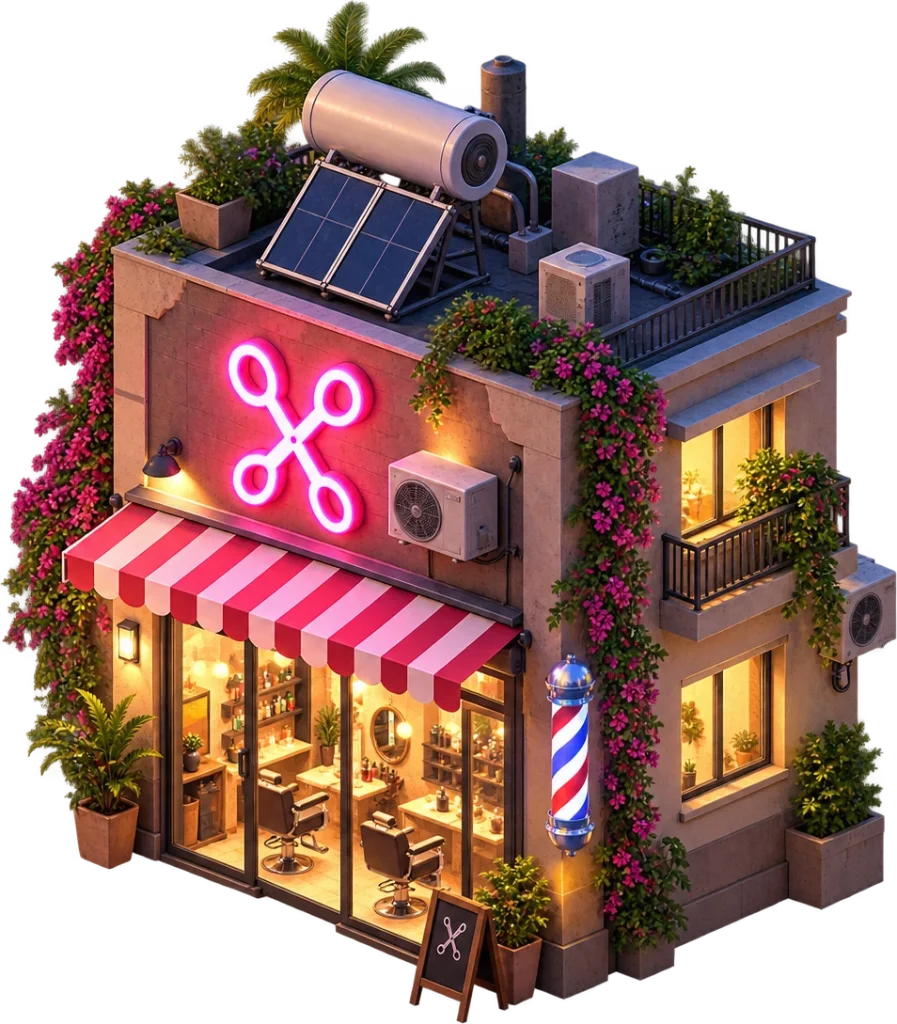
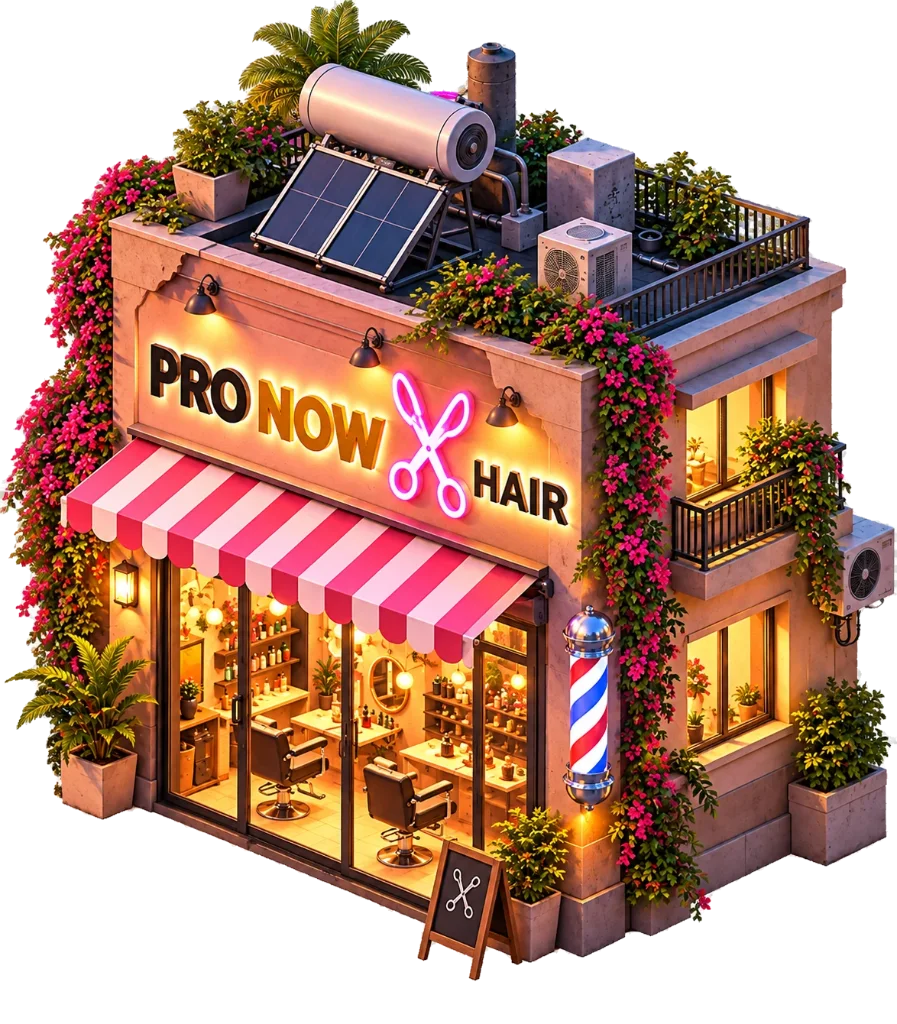
You see the shop before you walk into it
Amit, of the pink salon building: *"זה הכיוון שאני רוצה שתראה חנות לפני
שנכנסים — שמחה, חיה, נושמת, צעירה, עתידנית, זווית פרופורציונלית"*, with
three fixes: PRO NOW prominent, scissors that read as scissors, and a
word in English.

THE DOORSTEP. The trades' illustrated three-quarter buildings argue with
the street camera, which is why the street is flat elevations — but as
the moment of arrival they are exactly the picture he means. Pressing
"היכנס" now fills the screen with the building you are walking into: its
neon breathes, the view pushes in towards the door, and you come through
into the 360 room. Six trades have a building drawn; the rest enter as
before.

THE BUILDING. hair_barbershop_hero redrawn by the chat at the same angle
and in the same colours, with PRO NOW across the wall, pink neon scissors
with finger-holes and blades, and HAIR. It arrived with the usual
"transparent" background painted in as grey and white squares — 0% of
the file was transparent — and knockout-checker.mjs takes the grid out
by pattern, so the awning's white stripes and the barber pole survive.

How the wrong reference happened, for the record: the building he meant
is hair_barbershop_hero; I uploaded shop_hair, a flat beige elevation,
as "the facade Amit loves", and the chat faithfully redrew the wrong
thing. The flat redraw is not installed.

Gates: typecheck, lint, 81 test files, verify:a11y / screens / game pass.

diff --git a/tools/design-preview/src/city/City.tsx b/tools/design-preview/src/city/City.tsx
@@ -208,6 +208,35 @@ interface Trade {
 
 /** Avatar walk sheets whose frames have been checked by eye. See the
     player's loader for why this starts empty. */
+/*
+ * -----------------------------------------------------------------------
+ * THE SHOP BEFORE YOU ENTER IT
+ * -----------------------------------------------------------------------
+ * Amit, of the pink salon building: *"זה הכיוון שאני רוצה שתראה חנות לפני
+ * שנכנסים — שמחה, חיה, נושמת, צעירה, עתידנית, זווית פרופורציונלית."*
+ *
+ * These are the trades' own illustrated buildings, drawn at a
+ * three-quarter angle. In the street that baked angle argues with the
+ * camera, which is why the street uses flat elevations — but as the
+ * moment of arrival, full-screen, it is exactly the picture he means: you
+ * press "היכנס", the building you are walking into fills the screen, its
+ * neon breathes, the view pushes in towards the door, and you are inside.
+ */
+const DOORSTEP_HERO: Readonly<Record<string, string>> = {
+  hair: "hair_barbershop_hero.webp",
+  home: "home_workshop_hero.webp",
+  auto: "auto_garage_hero.webp",
+  appliance: "appliance_workshop_hero.webp",
+  care: "care_studio_hero.webp",
+  pets: "pets_salon_hero.webp",
+};
+const DOORSTEP_MS = 2100;
+const DOORSTEP_DIR =
+  typeof window !== "undefined" &&
+  (window.matchMedia?.("(pointer: coarse)").matches || window.innerWidth < 768)
+    ? "s/"
+    : "m/";
+
 const VERIFIED_AVATAR_SHEETS = new Set<string>([
   /* 2026-09-25: yesterday's twelve, from PRO_NOW_AVATAR_NN_3_DIRECTIONS,
      each sliced to exactly eight poses and looked at frame by frame. */
@@ -229,6 +258,7 @@ export function City({
   const [nearName, setNearName] = useState<string | null>(null);
   const [nearId, setNearId] = useState<string | null>(null);
   const [room, setRoom] = useState<ShopSpec | null>(null);
+  const [doorstep, setDoorstep] = useState<{ src: string; he: string; neon: string } | null>(null);
   /*
    * The shop you are STANDING IN, as opposed to the one whose picture
    * is filling the screen. Amit: *"שיהיה אפשר לעשות צעד פנימה לתוך
@@ -1825,6 +1855,12 @@ export function City({
           style={S.enter}
           onClick={() => {
             setWalking(true);
+            const shop = SHOPS.find((x) => x.id === nearId);
+            const hero = nearId ? DOORSTEP_HERO[nearId] : undefined;
+            if (hero && shop) {
+              setDoorstep({ src: `${base}${DOORSTEP_DIR}${hero}`, he: shop.he, neon: shop.neonColour ?? "#FF6B4A" });
+              window.setTimeout(() => setDoorstep(null), DOORSTEP_MS);
+            }
             enterRef.current?.();
           }}
         >
@@ -1848,6 +1884,16 @@ export function City({
       {onBackButton(onExit)}
 
       {/* The brand's colour, rising as the door opens. */}
+      {doorstep ? (
+        <div style={S.door} aria-hidden>
+          <div style={{ ...S.doorGlow, background: `radial-gradient(60% 45% at 50% 55%, ${doorstep.neon}55 0%, rgba(11,8,16,0) 70%)` }} />
+          <img src={doorstep.src} alt="" style={S.doorArt} />
+          <div style={S.doorName}>
+            <span style={{ color: doorstep.neon }}>●</span> {doorstep.he}
+          </div>
+        </div>
+      ) : null}
+
       <div
         style={{
           ...S.veil,
@@ -2446,6 +2492,26 @@ const S: Record<string, React.CSSProperties> = {
     background: "rgba(16,11,22,.9)", border: "1px solid rgba(247,243,250,.55)",
     color: "#F7F3FA", fontSize: scale.body, cursor: "pointer", lineHeight: 1,
   },
+  door: {
+    position: "absolute", inset: 0, zIndex: 30, pointerEvents: "none",
+    background: "radial-gradient(120% 90% at 50% 40%, #2a1a33 0%, #0b0810 70%)",
+    display: "grid", placeItems: "center", overflow: "hidden",
+    animation: `pnDoor ${DOORSTEP_MS}ms ease-in-out forwards`,
+  },
+  doorGlow: {
+    position: "absolute", inset: 0,
+    animation: "pnBreathe 1.4s ease-in-out infinite alternate",
+  },
+  doorArt: {
+    position: "relative", width: "92%", maxWidth: 560, height: "auto",
+    filter: "drop-shadow(0 18px 40px rgba(0,0,0,.55))",
+    animation: `pnPush ${DOORSTEP_MS}ms cubic-bezier(.5,0,.75,1) forwards`,
+  },
+  doorName: {
+    position: "absolute", bottom: "14%", left: 0, right: 0, textAlign: "center",
+    color: "#F7F3FA", fontSize: scale.title, fontWeight: 800, letterSpacing: 0.5,
+    textShadow: "0 4px 18px rgba(0,0,0,.6)",
+  },
   veil: {
     position: "absolute", inset: 0, pointerEvents: "none",
     transition: "opacity 460ms ease",
@@ -2631,6 +2697,10 @@ if (typeof document !== "undefined" && !document.getElementById("pn-city-css")) 
        sweeps rather than pretending to measure progress it does not
        have. A fake percentage is a lie told in the first second. */
     "@keyframes pnDrift{from{transform:scale(1.06) translateX(-1.5%)}to{transform:scale(1.14) translateX(1.5%)}}" +
-    "@keyframes pnFill{0%{transform:translateX(-120%)}100%{transform:translateX(320%)}}";
+    "@keyframes pnFill{0%{transform:translateX(-120%)}100%{transform:translateX(320%)}}" +
+    /* The doorstep: in, a breath, a push towards the door, and through. */
+    "@keyframes pnDoor{0%{opacity:0}14%{opacity:1}82%{opacity:1}100%{opacity:0}}" +
+    "@keyframes pnPush{0%{transform:scale(.9) translateY(3%)}22%{transform:scale(1) translateY(0)}100%{transform:scale(1.9) translateY(-9%)}}" +
+    "@keyframes pnBreathe{from{opacity:.55}to{opacity:1}}";
   document.head.appendChild(tag);
 }
